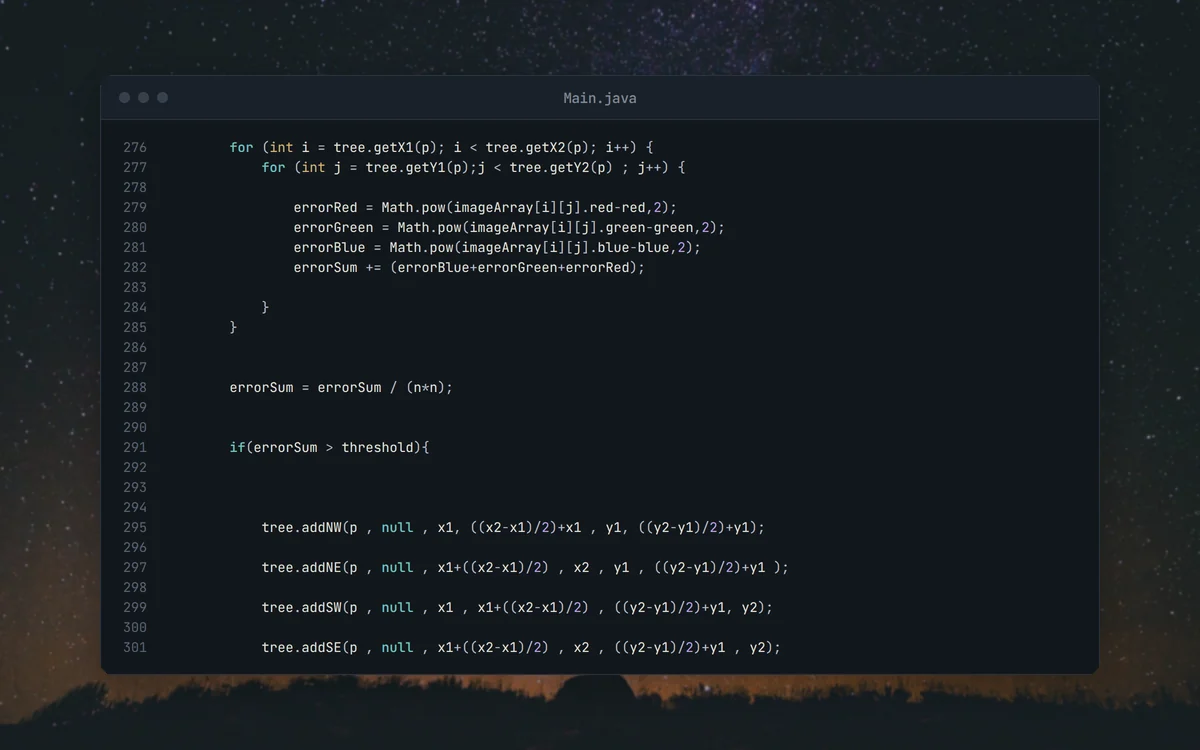
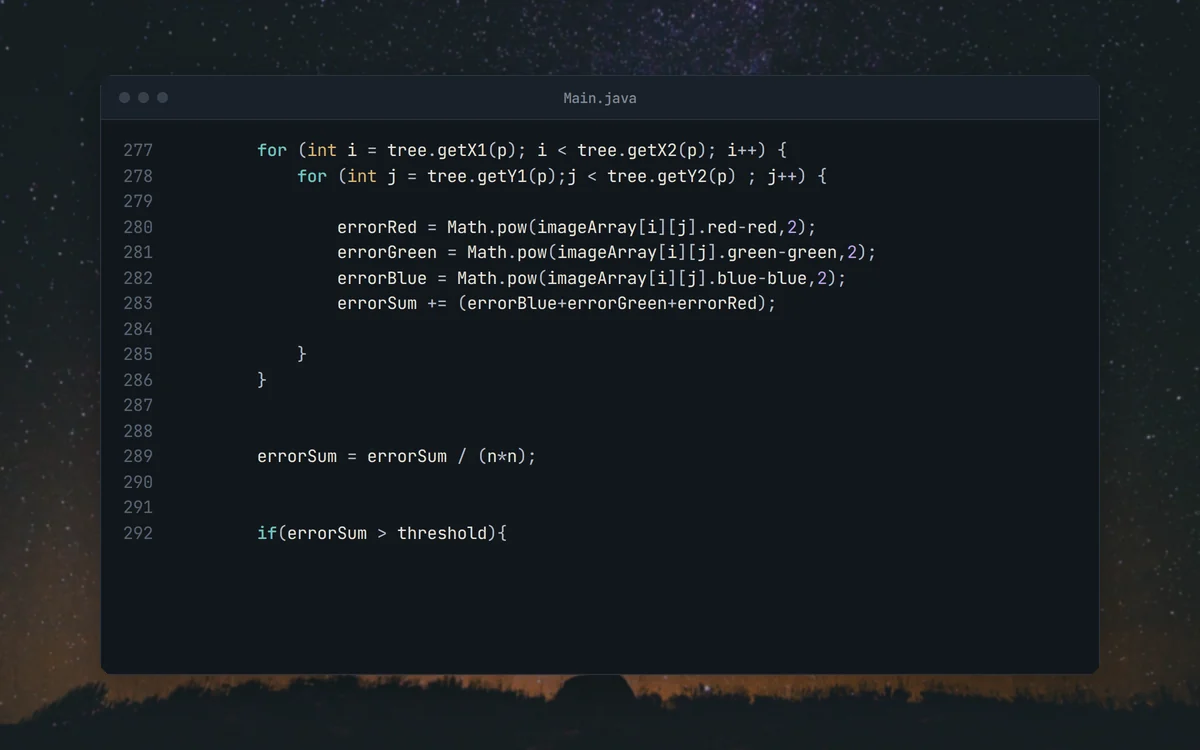
docs(readme): polish the readme visuals

diff --git a/README.md b/README.md
@@ -80,10 +80,10 @@ A single run produces the whole range from coarse to fine.
     <td width="50%" valign="top">
       <picture>
         <source media="(prefers-color-scheme: dark)" srcset="docs/assets/readme/tour/split-dark.webp">
-        <img src="docs/assets/readme/tour/split-light.webp" alt="Code card showing the error calculation and the four-way split in Main.java">
+        <img src="docs/assets/readme/tour/split-light.webp" alt="Code card showing the error calculation and the threshold test in Main.java">
       </picture>
       <h3>Splitting rule</h3>
-      A region is averaged, its error is measured, and it splits into four children when the error is above the threshold.
+      A region is averaged and its error is measured. The region splits into four children when the error is above the threshold.
     </td>
   </tr>
 </table>
